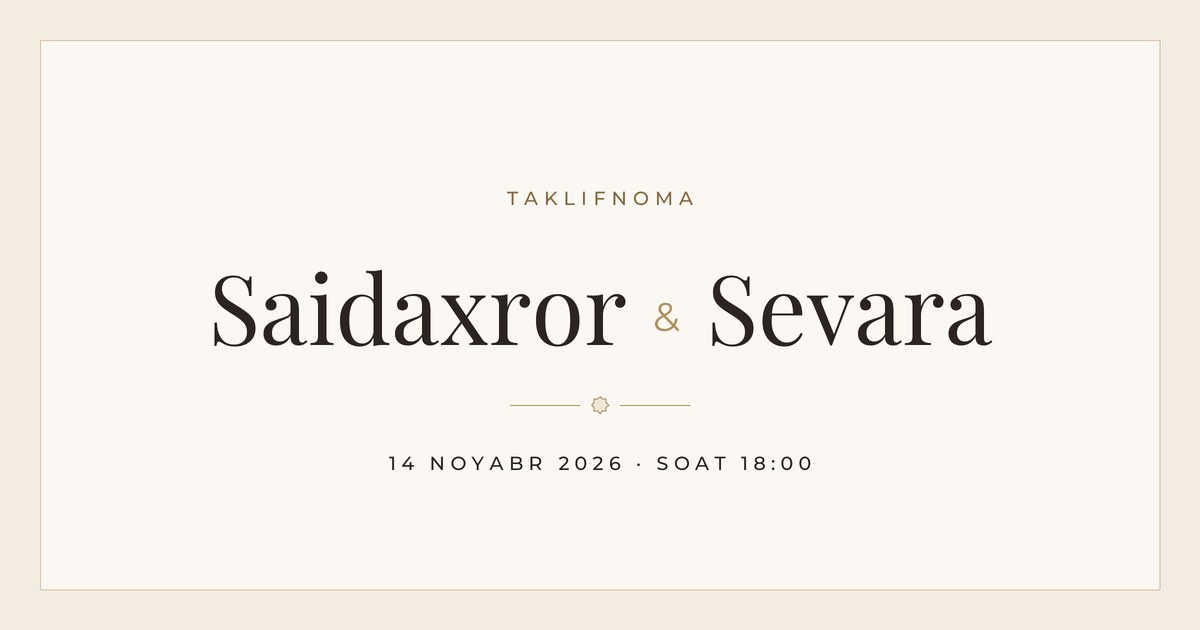
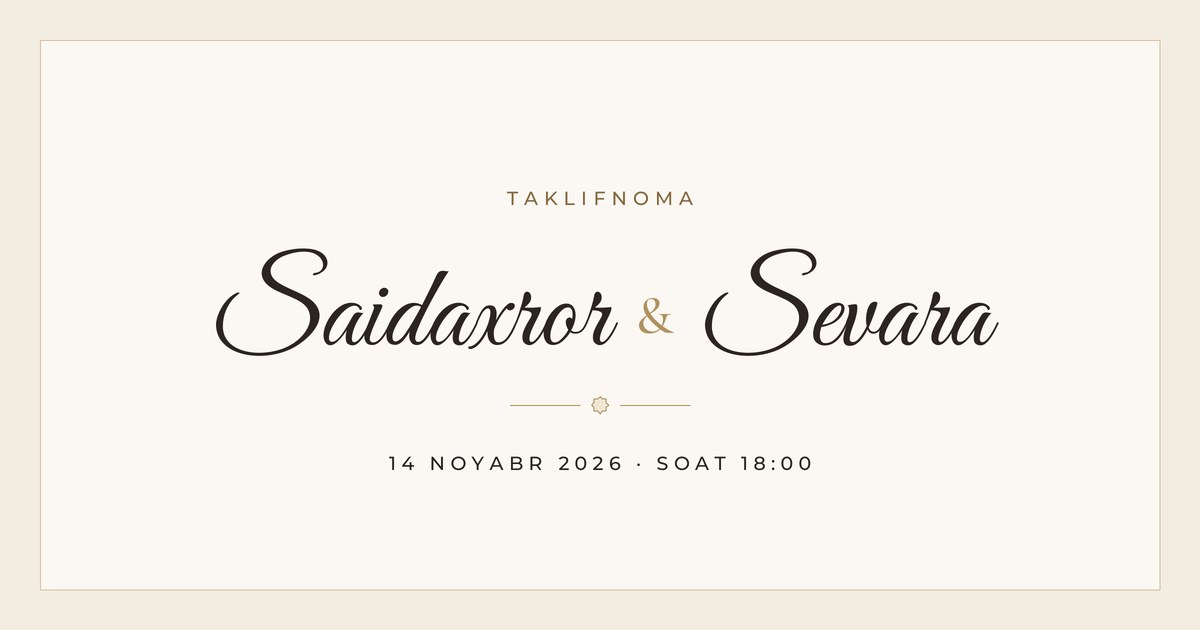
To‘yga mos shriftlar va fon naqshini olib tashlash
- Ismlar: Great Vibes (nafis yozma shrift, kirill bilan).
- Sarlavhalar, sana, raqamlar: Cormorant Garamond; matn: Montserrat.
- Fondagi girih naqshi olib tashlandi — fon toza kremrang;
  koshin hoshiya, yulduzli ajratgichlar va ikonalar qoldi.
- Havola rasmi yangi shriftlar bilan qayta yasaldi.

Changed region(s): [[0.1542, 0.3921, 0.8325, 0.573]]

diff --git a/src/style.css b/src/style.css
@@ -11,14 +11,15 @@
   --c-ink-soft: #5c5149;
   --c-line: rgba(43, 36, 32, 0.14);
 
-  --font-serif: 'Playfair Display', Georgia, 'Times New Roman', serif;
+  --font-script: 'Great Vibes', 'Brush Script MT', cursive;
+  --font-serif: 'Cormorant Garamond', Georgia, 'Times New Roman', serif;
   --font-sans: 'Montserrat', 'Helvetica Neue', Arial, system-ui, sans-serif;
 
   --fs-eyebrow: 0.72rem;
   --fs-small: 0.875rem;
   --fs-lead: clamp(0.9375rem, 0.9rem + 0.2vw, 1rem);
-  --fs-title: clamp(1.6rem, 1.4rem + 1vw, 2rem);
-  --fs-names: clamp(2.75rem, 2.35rem + 2vw, 3.5rem);
+  --fs-title: clamp(1.9rem, 1.65rem + 1.2vw, 2.4rem);
+  --fs-names: clamp(3.4rem, 2.9rem + 2.6vw, 4.5rem);
 
   --tracking-wide: 0.28em;
   --tracking-mid: 0.14em;
@@ -30,8 +31,7 @@
   --safe-top: env(safe-area-inset-top, 0px);
   --safe-bottom: env(safe-area-inset-bottom, 0px);
 
-  /* O‘zbek me’morchiligidagi girih naqshi va koshin hoshiya (src/assets/decor) */
-  --girih: url('./assets/decor/pattern-girih.svg') 0 0 / 112px;
+  /* O‘zbek me’morchiligidagi koshin hoshiya (src/assets/decor) */
   --band: url('./assets/decor/band.svg');
 }
 
@@ -58,7 +58,7 @@ html.is-locked {
 body {
   margin: 0;
   min-width: 320px;
-  background: var(--girih), var(--c-cream);
+  background: var(--c-cream);
   color: var(--c-ink);
   font-family: var(--font-sans);
   font-size: 0.9375rem;
@@ -118,34 +118,35 @@ button {
 .title {
   font-family: var(--font-serif);
   font-size: var(--fs-title);
-  font-weight: 400;
+  font-weight: 500;
   line-height: 1.25;
   text-wrap: balance;
 }
 
+/* Ismlar — nafis yozma shrift */
 .names {
-  font-family: var(--font-serif);
+  font-family: var(--font-script);
   font-size: var(--fs-names);
   font-weight: 400;
-  line-height: 1.1;
-  letter-spacing: -0.01em;
+  line-height: 1.15;
 }
 
 .names > span {
   display: block;
 }
 
-/* Oddiy, hammaga tanish "&" — serif shriftlardagi bezakli shakl o‘rniga. */
+/* Yozma shriftdagi "&" chalkash — aniq tanilib turadigan tik serif shakli. */
 .names .names__amp {
-  margin-block: 0.35em;
-  font-family: var(--font-sans);
-  font-size: 0.4em;
+  margin-block: 0.15em;
+  font-family: var(--font-serif);
+  font-size: 0.42em;
   font-style: normal;
+  font-weight: 500;
   line-height: 1.2;
   color: var(--c-gold);
 }
 
-/* Oddiy matn — toza sans; Playfair faqat ism, sarlavha va raqamlarda. */
+/* Oddiy matn — toza sans; serif va yozma shriftlar faqat ism, sarlavha va raqamlarda. */
 .lead {
   font-size: var(--fs-lead);
   line-height: 1.85;

diff --git a/src/components/CoupleSection.vue b/src/components/CoupleSection.vue
@@ -42,21 +42,23 @@ const greeting = computed(() =>
   margin-bottom: 0.75rem;
   border: 1px solid var(--c-champagne);
   border-radius: 50%;
-  font-family: var(--font-serif);
-  font-size: 1.6rem;
+  font-family: var(--font-script);
+  font-size: 2rem;
   line-height: 1;
 }
 
 .monogram__amp {
-  font-family: var(--font-sans);
-  font-size: 0.45em;
+  font-family: var(--font-serif);
+  font-size: 0.5em;
+  font-weight: 500;
   color: var(--c-gold);
 }
 
 .invitation__greeting {
   font-family: var(--font-serif);
-  font-size: 1.2rem;
+  font-size: 1.4rem;
   font-style: italic;
+  font-weight: 500;
   overflow-wrap: anywhere;
 }
 </style>

diff --git a/src/components/DateSection.vue b/src/components/DateSection.vue
@@ -99,14 +99,15 @@ const calendar = computed(() =>
 .date__day {
   padding-inline: 1.25rem;
   font-family: var(--font-serif);
-  font-size: 4.25rem;
-  font-weight: 400;
+  font-size: 4.75rem;
+  font-weight: 500;
   line-height: 1;
 }
 
 .date__meta {
   font-family: var(--font-serif);
-  font-size: var(--fs-lead);
+  font-size: 1.2rem;
+  font-weight: 500;
   color: var(--c-ink-soft);
 }
 
@@ -119,8 +120,9 @@ const calendar = computed(() =>
 .calendar__title {
   margin-bottom: 0.9rem;
   font-family: var(--font-serif);
-  font-size: 1.1rem;
+  font-size: 1.3rem;
   font-style: italic;
+  font-weight: 500;
 }
 
 .calendar__grid {

diff --git a/src/components/Countdown.vue b/src/components/Countdown.vue
@@ -79,8 +79,8 @@ const pad = (value) => String(value).padStart(2, '0')
 
 .countdown__value {
   font-family: var(--font-serif);
-  font-size: clamp(2rem, 1.7rem + 1.4vw, 2.5rem);
-  font-weight: 400;
+  font-size: clamp(2.4rem, 2.1rem + 1.4vw, 2.9rem);
+  font-weight: 500;
   line-height: 1;
   font-variant-numeric: tabular-nums lining-nums;
 }
@@ -95,7 +95,8 @@ const pad = (value) => String(value).padStart(2, '0')
 
 .countdown__arrived {
   font-family: var(--font-serif);
-  font-size: 1.35rem;
+  font-size: 1.6rem;
   font-style: italic;
+  font-weight: 500;
 }
 </style>

diff --git a/src/components/HeroSection.vue b/src/components/HeroSection.vue
@@ -46,7 +46,7 @@ const label = computed(() => (guestName ? fill(t.value.cover.guestLabel, { name:
   display: flex;
   padding: calc(4.25rem + var(--safe-top)) 1.25rem calc(1.25rem + var(--safe-bottom));
   overflow-y: auto;
-  background: var(--girih), var(--c-cream);
+  background: var(--c-cream);
 }
 
 /* Bosma taklifnomadagidek arka: tashqi va ichki ingichka chiziq. */
@@ -124,7 +124,7 @@ html.fonts-ready .cover__content {
   }
 
   .cover__names {
-    font-size: 2.4rem;
+    font-size: 2.9rem;
   }
 }
 

diff --git a/index.html b/index.html
@@ -28,7 +28,7 @@
     <link rel="preconnect" href="https://fonts.gstatic.com" crossorigin />
     <link
       rel="stylesheet"
-      href="https://fonts.googleapis.com/css2?family=Montserrat:wght@400;500&family=Playfair+Display:ital,wght@0,400;1,400&display=swap"
+      href="https://fonts.googleapis.com/css2?family=Cormorant+Garamond:ital,wght@0,500;1,500&family=Great+Vibes&family=Montserrat:wght@400;500&display=swap"
     />
   </head>
   <body>

diff --git a/src/fonts.js b/src/fonts.js
@@ -2,8 +2,9 @@ import { weddingData } from './data/wedding.js'
 
 // Sahifada ishlatiladigan barcha shrift ko‘rinishlari.
 const FACES = [
-  '400 1em "Playfair Display"',
-  'italic 400 1em "Playfair Display"',
+  '400 1em "Great Vibes"',
+  '500 1em "Cormorant Garamond"',
+  'italic 500 1em "Cormorant Garamond"',
   '400 1em Montserrat',
   '500 1em Montserrat',
 ]

diff --git a/src/components/ClosingSection.vue b/src/components/ClosingSection.vue
@@ -30,13 +30,14 @@ import { coupleNames, t } from '../i18n.js'
 .closing__signature {
   margin-top: 0.5rem;
   font-family: var(--font-serif);
-  font-size: 1.05rem;
+  font-size: 1.3rem;
   font-style: italic;
+  font-weight: 500;
   color: var(--c-ink-soft);
 }
 
 .closing__names {
-  font-size: 3rem;
+  font-size: 3.4rem;
 }
 
 .closing__hosts {

diff --git a/src/components/GiftSection.vue b/src/components/GiftSection.vue
@@ -101,8 +101,9 @@ onBeforeUnmount(() => clearTimeout(feedbackTimer))
   top: 1.25rem;
   right: 1.5rem;
   font-family: var(--font-serif);
-  font-size: 1rem;
+  font-size: 1.15rem;
   font-style: italic;
+  font-weight: 500;
   color: var(--c-gold-deep);
 }
 

diff --git a/README.md b/README.md
@@ -16,7 +16,7 @@ npm run preview   # tayyor buildni lokal ko‘rish
 Barcha ma’lumot va matnlar **`src/data/wedding.js`** faylida: ismlar, sana va vaqt mintaqasi, to‘yxona, xarita havolalari, to‘yona kartasi, SEO. Komponentlar ichida to‘yga oid matn yo‘q.
 
 Taklifnoma rasmsiz, minimalist dizaynda: arka ramka, monogramma va o‘zbek me’morchiligidagi
-sakkiz qirrali yulduz (girih) asosidagi naqsh, hoshiya va ajratgichlar (`src/assets/decor/*.svg`). Yagona rasm —
+sakkiz qirrali yulduz (girih) asosidagi hoshiya va ajratgichlar (`src/assets/decor/*.svg`). Yagona rasm —
 `public/images/og-image.jpg` (1200×630): havola Telegram va boshqa ilovalarda yuborilganda chiqadi.
 
 ### Mehmonlarga yuborish
@@ -39,7 +39,7 @@ src/
 ├── components/  HeroSection (muqova), CoupleSection (taklif matni), DateSection,
 │                Countdown, VenueSection, GiftSection (to‘yona), ClosingSection,
 │                LanguageSwitch, SectionDivider, SectionReveal
-├── assets/decor/ girih naqshi, hoshiya, yulduz va bo‘lim ikonalari (SVG)
+├── assets/decor/ koshin hoshiya, yulduz va bo‘lim ikonalari (SVG)
 ├── data/        wedding.js — yagona ma’lumot manbai
 ├── i18n.js      til (uz/ru), mehmon ismi (?m=)
 ├── utils/       date.js — sana va taqvim (uz/ru); links.js — xarita, taksi, kalendar havolalari
@@ -51,4 +51,4 @@ src/
 
 ## Mualliflik
 
-Shriftlar: Playfair Display (ismlar, sarlavhalar) va Montserrat (matn) — Google Fonts, SIL Open Font License.
+Shriftlar: Great Vibes (ismlar), Cormorant Garamond (sarlavhalar, sana) va Montserrat (matn) — Google Fonts, SIL Open Font License.
